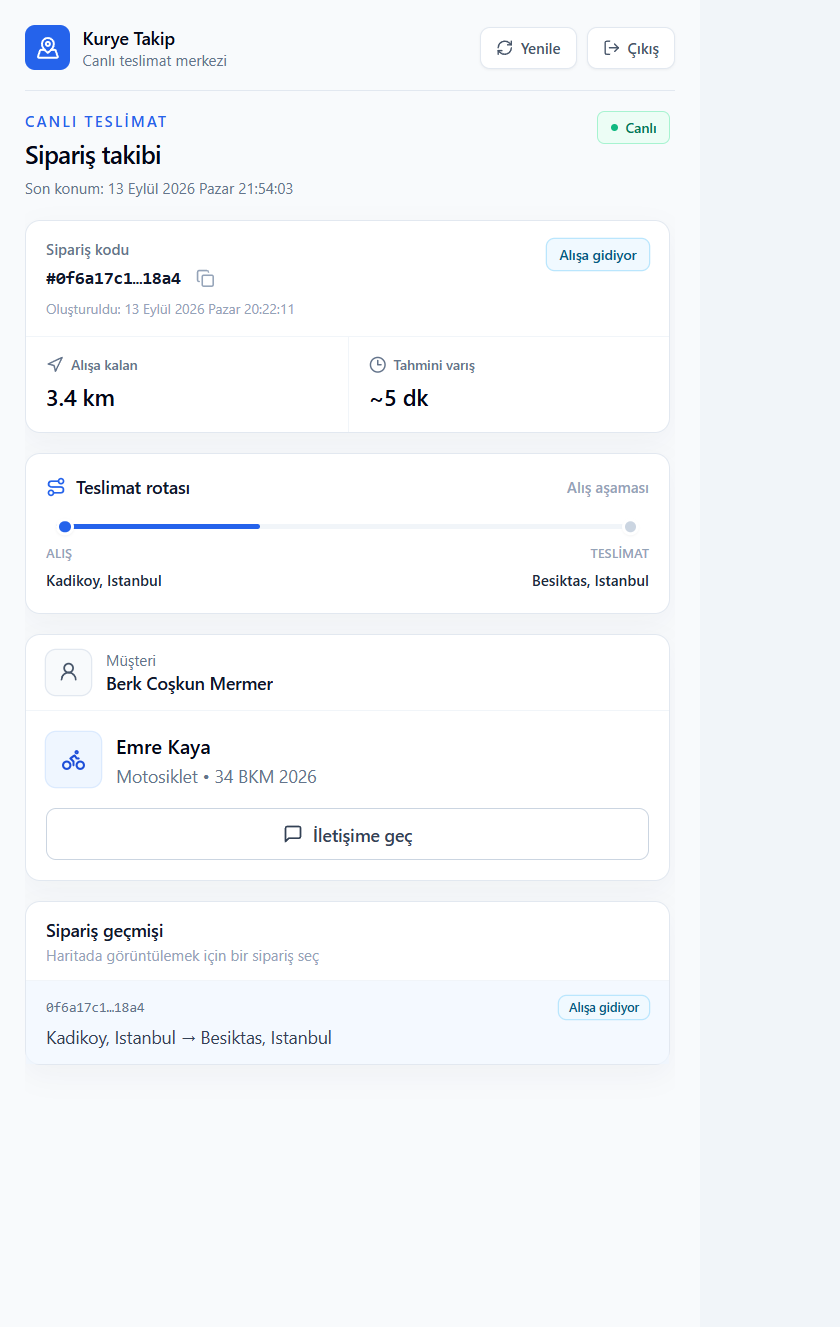
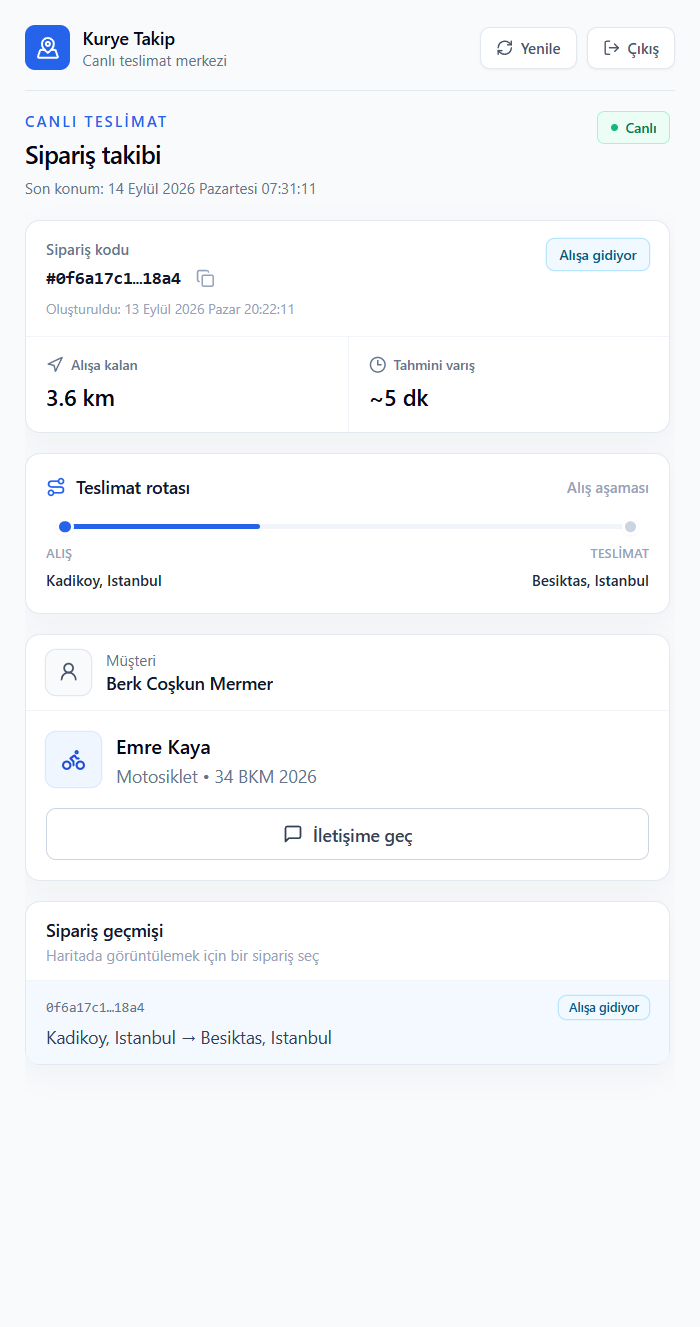
Switch live map tiles to OpenStreetMap
OSM raster tiles need no API key, so the demo map no longer shows a provider watermark.

diff --git a/frontend/src/components/LiveMap.jsx b/frontend/src/components/LiveMap.jsx
@@ -103,8 +103,8 @@ const LiveMap = ({
     <div className="relative h-full w-full">
       <MapContainer center={center} zoom={13} style={{ height: '100%', width: '100%' }} zoomControl={false}>
         <TileLayer
-          url="https://tiles.stadiamaps.com/tiles/alidade_smooth/{z}/{x}/{y}{r}.png"
-          attribution='&copy; <a href="https://stadiamaps.com/">Stadia Maps</a> &copy; <a href="https://openmaptiles.org/">OpenMapTiles</a> &copy; <a href="https://www.openstreetmap.org/copyright">OpenStreetMap</a>'
+          url="https://{s}.tile.openstreetmap.org/{z}/{x}/{y}.png"
+          attribution='&copy; <a href="https://www.openstreetmap.org/copyright">OpenStreetMap</a>'
         />
 
         {pickupPos && (
